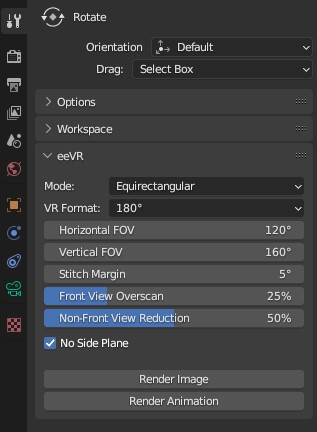
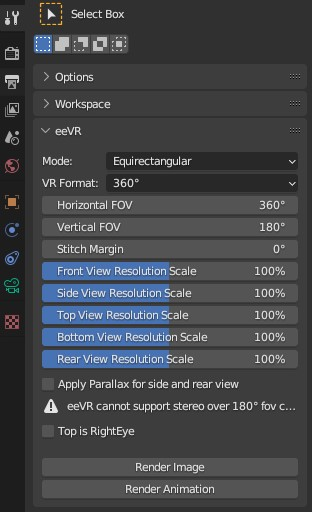
Finaly done

diff --git a/__init__.py b/__init__.py
@@ -175,13 +175,17 @@ class ToolPanel(Panel):
             col.prop(props, 'HFOV360')
         col.prop(props, 'VFOV')
         col.prop(props, 'stitchMargin')
-        col.prop(props, 'frontViewOverscan')
-        col.prop(props, 'nonFrontViewReduction')
+        col.prop(props, 'frontViewResolution')
+        col.prop(props, 'sideViewResolution')
+        col.prop(props, 'topViewResolution')
+        col.prop(props, 'bottomViewResolution')
+        col.prop(props, 'rearViewResolution')
         if props.fovModeEnum == '180':
             col = layout.column()
-            col.prop(props, 'FrontFOV')
+            col.prop(props, 'frontFOV')
         if context.scene.render.use_multiview and props.GetHFOV() > radians(180):
             col = layout.column()
+            col.prop(props, 'appliesParallaxForSideAndBack')
             col.label(icon='ERROR', text="eeVR cannot support stereo over 180° fov correctly.")
         if context.scene.render.use_multiview and (context.scene.render.image_settings.stereo_3d_format.display_mode == 'TOPBOTTOM') if props.cancel else props.trueTopBottom:
             col = layout.column()
@@ -263,7 +267,7 @@ class Properties(bpy.types.PropertyGroup):
         description="Vertical Field of view in degrees",
     )
 
-    FrontFOV: bpy.props.FloatProperty(
+    frontFOV: bpy.props.FloatProperty(
         name="Front View FOV",
         subtype='ANGLE',
         unit='ROTATION',
@@ -287,26 +291,66 @@ class Properties(bpy.types.PropertyGroup):
         description="Margin for Seam Blending in degrees",
     )
 
-    frontViewOverscan: bpy.props.FloatProperty(
-        name="Front View Overscan",
+    frontViewResolution: bpy.props.FloatProperty(
+        name="Front View Resolution Scale",
         subtype='PERCENTAGE',
         precision=0,
         step=100,
-        default=25,
-        min=0,
-        max=100,
-        description="Overscan Rate for Front View Rendering",
+        default=125,
+        min=1,
+        max=200,
+        description="Overscan/Reduction Rate for Front View Rendering",
     )
 
-    nonFrontViewReduction: bpy.props.FloatProperty(
-        name="Non-Front View Reduction",
+    sideViewResolution: bpy.props.FloatProperty(
+        name="Side View Resolution Scale",
         subtype='PERCENTAGE',
         precision=0,
         step=100,
-        default=50,
-        min=0,
-        max=99,
-        description="Resolution Reduction Rate for Rendering expect Front View",
+        default=100,
+        min=1,
+        max=200,
+        description="Overscan/Reduction Rate for Side View Rendering",
+    )
+
+    topViewResolution: bpy.props.FloatProperty(
+        name="Top View Resolution Scale",
+        subtype='PERCENTAGE',
+        precision=0,
+        step=100,
+        default=100,
+        min=1,
+        max=200,
+        description="Overscan/Reduction Rate for Top View Rendering",
+    )
+
+    bottomViewResolution: bpy.props.FloatProperty(
+        name="Bottom View Resolution Scale",
+        subtype='PERCENTAGE',
+        precision=0,
+        step=100,
+        default=100,
+        min=1,
+        max=200,
+        description="Overscan/Reduction Rate for Bottom View Rendering",
+    )
+
+    rearViewResolution: bpy.props.FloatProperty(
+        name="Rear View Resolution Scale",
+        subtype='PERCENTAGE',
+        precision=0,
+        step=100,
+        default=100,
+        min=1,
+        max=200,
+        description="Overscan/Reduction Rate for Rear View Rendering",
+    )
+
+    appliesParallaxForSideAndBack: bpy.props.BoolProperty(
+        description="If it is on, it allows for noticeable seams or blending artifacts in side and rear views to introduce collect parallax"\
+         " at over HFOV 180 rendering. default is false.",
+        default=False,
+        name="Apply Parallax for side and rear view",
     )
 
     isTopRightEye: bpy.props.BoolProperty(
@@ -344,7 +388,7 @@ class Properties(bpy.types.PropertyGroup):
         return self.snap_angle(self.VFOV)
 
     def GetFrontFOV(self) -> float:
-        return self.snap_angle(self.FrontFOV) if self.fovModeEnum == '180' else radians(90)
+        return self.snap_angle(self.frontFOV) if self.fovModeEnum == '180' else radians(90)
 
     @classmethod
     def register(cls):

diff --git a/README.md b/README.md
@@ -4,7 +4,11 @@ Blender addon to render 360° and 180° images and videos in eevee engine with s
 
 ## Getting Started
 
-You will need to get [**Blender 3.x**](https://www.blender.org), install it, download the zip file from this GitHub, load the addon into Blender by installing the zip file in Blender Preferences > Add-ons > Install, search for "eeVR" under the Community tab and click the checkbox to enable it. A tool panel will appear in the 3D Viewport's **Tool tab**, FOV value adjustment, and buttons for rendering stills and animations. **The rendered images/image sequences will be stored in the same directory as the .blend file**.
+You will need to get [**Blender 3.x**](https://www.blender.org), install it, download the zip file from this GitHub,
+load the addon into Blender by installing the zip file in Blender Preferences > Add-ons > Install,
+search for "eeVR" under the Community tab and click the checkbox to enable it.
+A tool panel will appear in the 3D Viewport's **Tool tab**, FOV value adjustment, and buttons for rendering stills and animations.
+**The rendered images/image sequences will be stored in the same directory as the .blend file**.
 
 **NOTE** : The eeVR panel appears only when the render engine is EEVEE or WORKBENCH.
 
@@ -22,29 +26,49 @@ Final Image
 
 ![Final Image](img/finalimage.jpg "Final Image")
 
-### Front View Overscan
+### Resolution scales per view
 
-The resolution is calculated so that the angle of view of each camera (front, back, top, bottom, and side) fits the final rendering resolution, but in this case the panorama is stretched and the front center is not resolved enough.
+The resolution is calculated so that the angle of view of each camera (front, back, top, bottom, and side) fits the final rendering resolution,
+but in this case the panorama is stretched and the front center is not resolved enough.
 
 The resolution can be increased by this amount only for the frontal rendering to compensate for the lack of resolution.
 
-The default setting of 25% almost eliminates the lack of resolution in the center of the image, but it results in excessive resolution on the periphery.
+The default setting of 125% almost eliminates the lack of resolution in the center of the image,
+but it results in excessive resolution on the periphery.
 
 This means that rendering will take more time.
 
-### Non-Front View Resolution Reduction
+Meanwhile, To reduce rendering time, you can specify the reduction percentage of the rendering resolution for views other than the front view,
+where their importance is lower.
 
-To reduce rendering time, you can specify the reduction percentage of the rendering resolution for views other than the front view, where their importance is lower.
+You can set it from 1% to a maximum of 200% reduction.
 
-You can set it from 0% (no reduction) to a maximum of 99% reduction.
+### Front View FOV
 
-### No Side Plane
+You can specify a field of view (FOV) greater than 90° but less than 160° exclusively for the front view.
 
-Generates panorama image **without rendering side views**.
+Since rendering the front view is typically crucial, having a wider FOV for the front view in a single rendering pass can push the boundaries with other
+views to the corners of the field of view, improving quality.
 
-It is neccesary Horizontal FOV is under 160°.
+If the front view FOV is greater than the horizontal FOV, the side view rendering is omitted. Similarly, if it's greater than the vertical FOV,
+the top and bottom views' rendering is omitted. If both conditions are met, the front view rendering occurs only once.
+In this case, the FOV is clipped to whichever is larger between the horizontal and vertical FOVs.
 
-If you set same angle for Horizontal FOV and Vertical FOV both, eeVR makes panorama image from front render image only.
+**NOTE** : This feature is active only in VR180 mode.
+
+### Applies Parallax For Side And Rear
+
+When enabled, it allows for noticeable seams or blending artifacts in side and rear views' margins to introduce collect parallax at over HFOV 180 rendering.
+
+This switch only available if Horizontal FOV greater than 180° and stereo rendering is active.
+
+### 'Top is RightEye' switch
+
+When enabled, in 'Top-Bottom' mode of stereo rendering, the right-eye image is positioned above.
+
+By default, when it's turned off, the left-eye image is placed above, and the right-eye image is positioned below.
+
+By the way, in the side-by-side mode, you can swap the left and right by checking the "Cross-Eyed" option in the Output Properties.
 
 ## License
 
